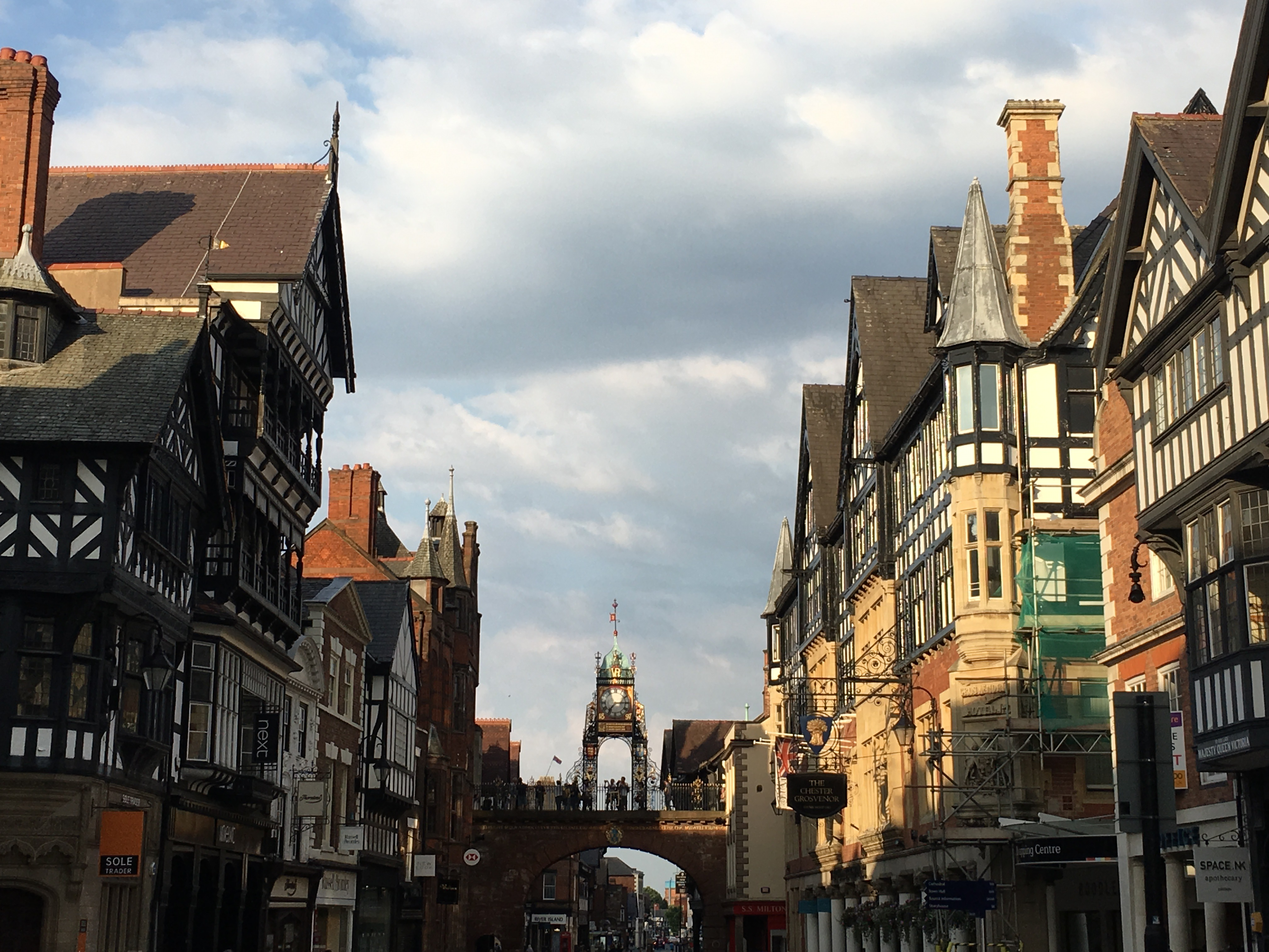
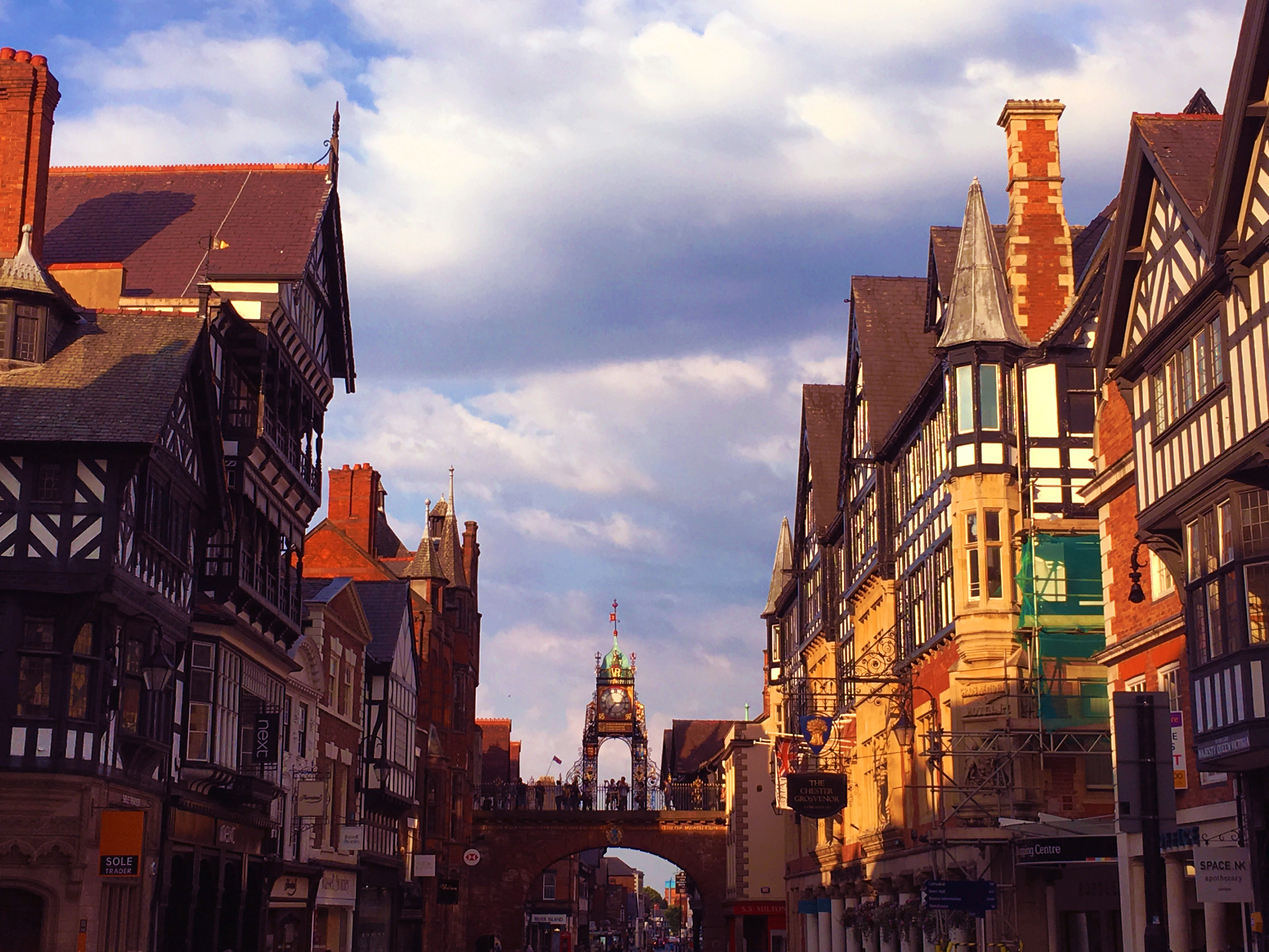
March 7 6:19

diff --git a/css/styles.css b/css/styles.css
@@ -4,13 +4,14 @@
 }
 
 body{
-    background-color:rgb(50, 115, 135);
+    background-color:rgb(6, 158, 209);
     font-family:Arial, Helvetica, sans-serif;
 }
 
 #BG{
   background-image: url(/images/beach.jpg);
   background-size: 100% 150%;
+  background-repeat: no-repeat;
 }
 
 /* NAV */
@@ -95,27 +96,6 @@ nav li:first-child a {
   padding: 10px;
 }
 
-.england{
-  max-width: 45%; 
-  height: auto;
-  object-position: 10% 10%;
-  overflow: hidden;
-  border: solid;
-  padding: 10px;
-  color: white;
-}
-
-.beach {
-  max-width: 45%; 
-  height: auto;
-  object-position: 10% 10%;
-  overflow: hidden;
-
-  border: solid;
-  padding: 10px;
-  color: white;
-}
-
 .album{
     object-fit: cover;
     object-position: 80% 100%;
@@ -128,6 +108,20 @@ nav li:first-child a {
     margin-right: 50px;
     margin-left: 50px;
   }
+
+.photographyimg{
+  margin-left: 35px;
+  margin-right: 20px;
+  margin-top: 25px; 
+}
+
+
+
+.drawingimgs1{
+  margin-top: 25px;
+  margin-left: 150px;
+  margin-right: 100px;
+}
 
 
   /* add later 
@@ -151,19 +145,12 @@ nav li:first-child a {
     font-family: Georgia, 'Times New Roman', Times, serif
 }
 
-.GD{
-  margin-bottom: 10px;
-  margin-top: 50px;
-  text-align: center;
-  color: white;
-  margin-left: 50px;
-  margin-right: 50px;
-  font-size: x-large;
-}
+
 h1{
   text-align: center;
   margin: 50px;
   color: white;
+  font-size: xx-large;
 }
 
 h2{
@@ -192,9 +179,9 @@ h2{
 }
 
 .drawingtext{
-  margin-left: 100px;
+  margin-left: 150px;
   margin-bottom: 100px;
-  margin-right: 100px;
+  margin-right: 150px;
   text-align: center;
   color: white;
   font-family:Georgia, 'Times New Roman', Times, serif

diff --git a/about_me.html b/about_me.html
@@ -23,11 +23,10 @@
     </nav>
 </header>
 
-<div>
-    <h2>
-       A LITTLE ABOUT ME
-    </h2>
-    </div>
+    <h1>
+        A Little About Me
+    </h1>
+
     <div>
         <p class="IntroParagraph">
         I am a graphic designer studying visual communications design at San Francisco State University. My goal is to use graphic design as a tool for marketing. It has become an outlet to express myself creatively. As a graphic designer, I hope to venture into a career of marketing. My academic journey has been marked by transformation, growth, and change. Beginning at Biola University and later transferring to Skyline Community College before settling at San Francisco State University, I've learned that <em>change is inevitable</em> and I now value the time that I have. These changes in my academic environment have not only broadened my perspectives but have also reinforced the understanding that my environment will always change. Throughout my educational and professional endeavors, I've improved not only my fundamental skills with Adobe Photoshop, Illustrator, and InDesign but also vital soft skills such as team leadership, communications, and organizational abilities. These skills have been valuable in my path of navigating the intricacies of the design industry, where collaboration, creativity, and effective communication are key. With each project I complete, I've become more skilled at translating my thoughts and ideas into a visually compelling design. I am eager to continue to use my design skills to create designs that promote my personality.</p>

diff --git a/photography.html b/photography.html
@@ -22,18 +22,25 @@
             </ul>
         </nav>
 
-        <div class="grid-container">
-            <div class="image">
-                <img src="images/Giants.jpg" alt="Giants">
-            </div>
-            <div class="image">
-                <img src="images/sd.jpg" alt="San Diego">
-            </div>
-            <div class="text">
-                <div class="photographytext">
-                    <p>Photography taught me the importance of finding the best angle and editing photos. Through improving the fundamentals of photography, my Adobe Photoshop skills have also grown. My photography is more focused on the natural world as well as authenticity. 
-                    </p>
-                </div>
+<section>
+    <h1 class="">
+        Photography
+    </h1>
+</section>
+
+<div class="drawingcontainer">
+    <div class="photographyimg">
+        <img src="images/Giants.jpg" alt="Giants" width="450px" height="450px">
+        <img src="images/England.jpg" alt="Chester,England" width="450px" height="450px">
+        <img src="images/sd.jpg" alt="San Diego" width="450px" height="450px">
+    </div>
+</div>
+            
+<div class="text">
+    <div class="photographytext">
+        <p>Photography taught me the importance of finding the best angle and editing photos. Through improving the fundamentals of photography, my Adobe Photoshop skills have also grown. My photography is more focused on the natural world as well as authenticity. </p>
+    </div>
+</div>
 
        
 </body>

diff --git a/graphic_design.html b/graphic_design.html
@@ -29,20 +29,18 @@
     </h1>
 </section>
 
-<section>
+
 <div class="parent">
         <div class="column1">
             <img class="album" src="images/album.png" alt="SPLAT!" height="350px" width="350px">
             <img class="Book3" src="images/rendering3.png" alt="Book Rendering!" height="350px" width="350px"> 
         </div>
+</div>
 
-    <div class="DesignText1"><p>The past few years have been influential in my development of design skills. I started with simple illustrations in Adobe Illustrator like the house and Pepsi can, but transitioned to integrating Photoshop into the designs.  Design, as a whole, opened my eyes to the intricacies of everyday objects and improved my detail-oriented mind. Every little detail counts and needs to be made so that the design works well.
-    </p>
-    </div>
+<div class="DesignText1"><p>The past few years have been influential in my development of design skills. I started with simple illustrations in Adobe Illustrator like the house and Pepsi can, but transitioned to integrating Photoshop into the designs.  Design, as a whole, opened my eyes to the intricacies of everyday objects and improved my detail-oriented mind. Every little detail counts and needs to be made so that the design works well.</p>
 </div>
     
 
-</section>
 
 
 

diff --git a/drawing.html b/drawing.html
@@ -32,14 +32,13 @@
 </div>
 
 
-<div class="sidebysideimgs">
-    <div class="drawingimgs1">
+<div class="drawingimgs1">
       <img src="images/prespective.png" alt="Perspective Drawing" height="500px" width="550px">
-    </div>
-    <div class="drawingimgs1">
       <img src="images/Still Life 3 E.jpg" alt="Still Life 3" height="500px" width="550px">
+      <img src="images/Charcoal.png" alt="Charcoal Drawing"  height="500px" width="550px">
+      <img src="images/WoB.png" alt="White Pencil Black Paper Drawing"  height="500px" width="550px">
     </div>
-  </div>
+</div>
 
 
 
